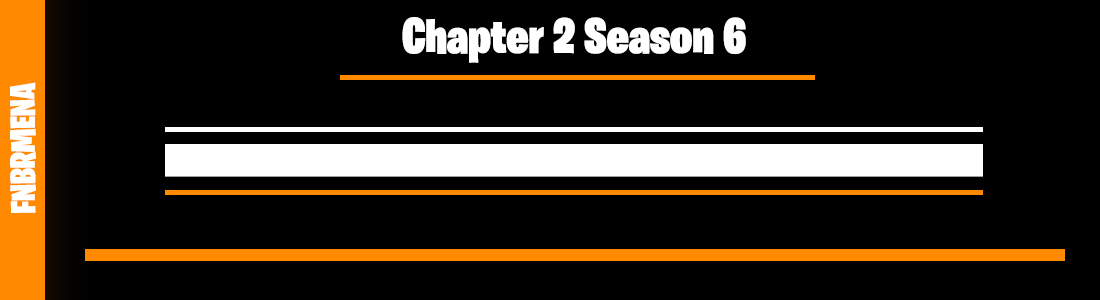
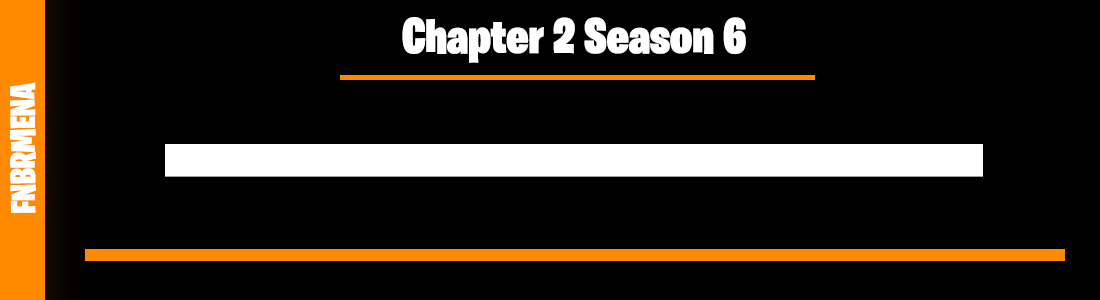
First Commit

Changed region(s): [[0.1545, 0.63, 0.8964, 0.66], [0.1545, 0.42, 0.8964, 0.45]]

diff --git a/commands/Fortnite/ProgressBar.js b/commands/Fortnite/ProgressBar.js
@@ -58,7 +58,7 @@ module.exports = {
                 }else if(lang === "ar"){
                     ctx.font = '25px Arabic'
                 }
-                ctx.fillText(Slength+ res.data.data.SeasonLength +days, (1100 / 2), 290)
+                ctx.fillText(Slength+ res.data.data.SeasonLength +days, (1100 / 2), 288)
 
                 //bar
                 const bar = await Canvas.loadImage('./assets/Bar/Bar.png')
@@ -74,7 +74,7 @@ module.exports = {
 
                 //gone
                 const gone = await Canvas.loadImage('./assets/Bar/green.png')
-                ctx.drawImage(gone, 165, 183, 0,20)
+                ctx.drawImage(gone, 165, 183, length,8)
                 ctx.fillStyle = '#ffffff';
                 ctx.textAlign='center';
                 if(lang === "en"){
